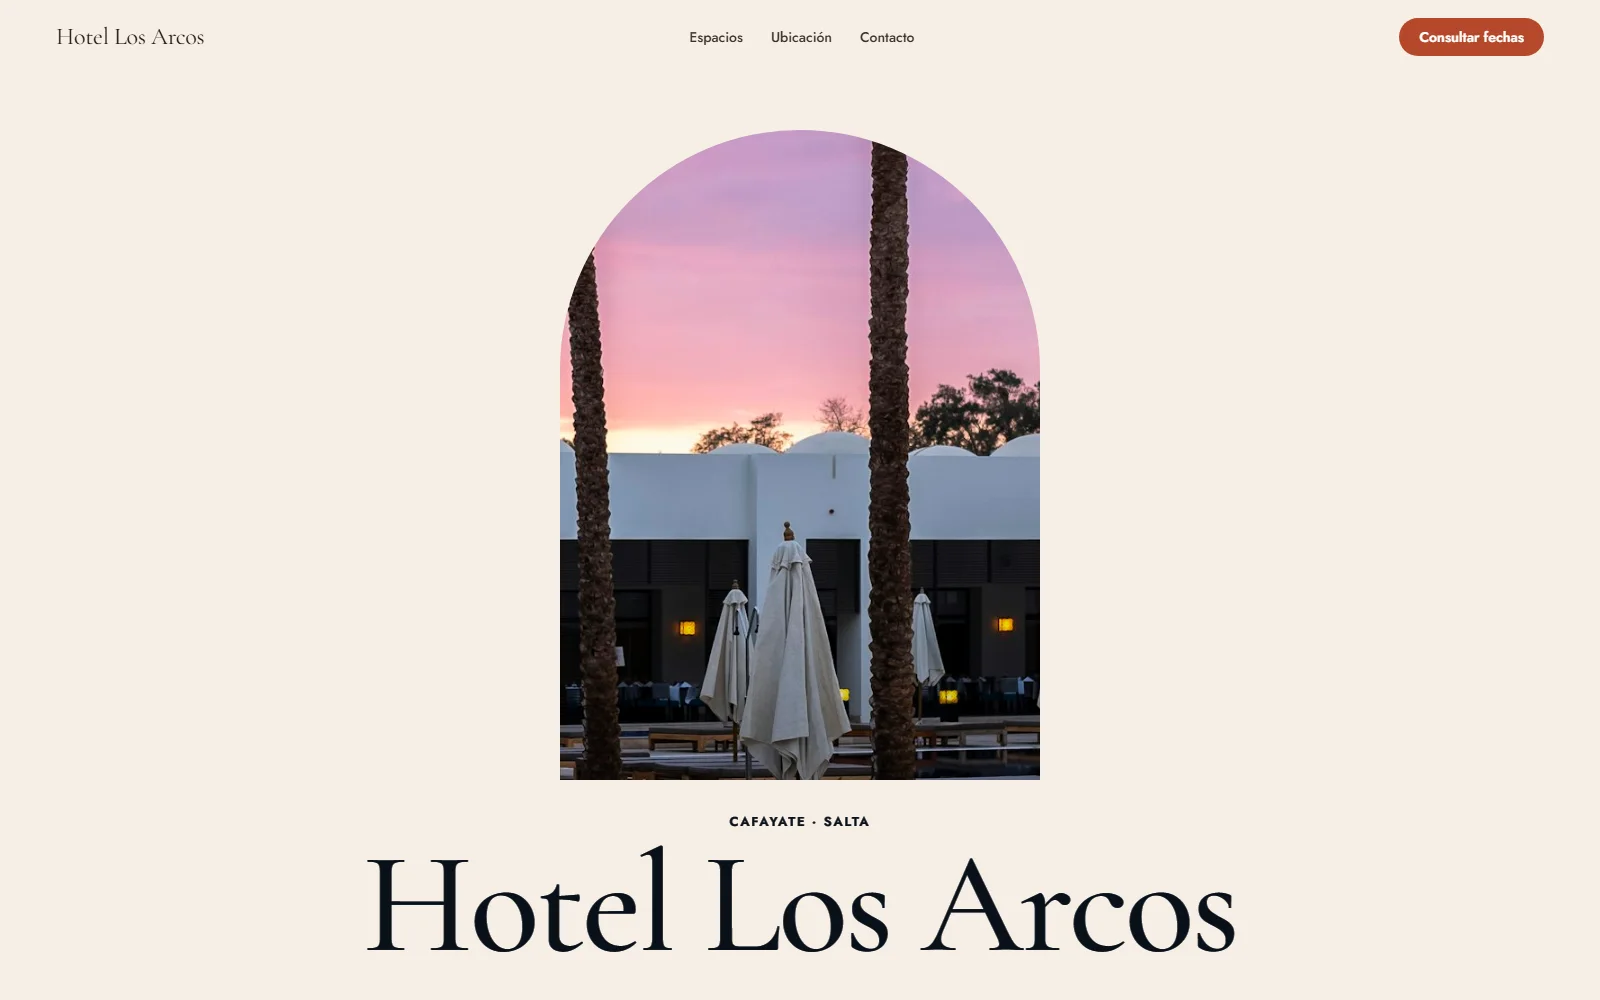
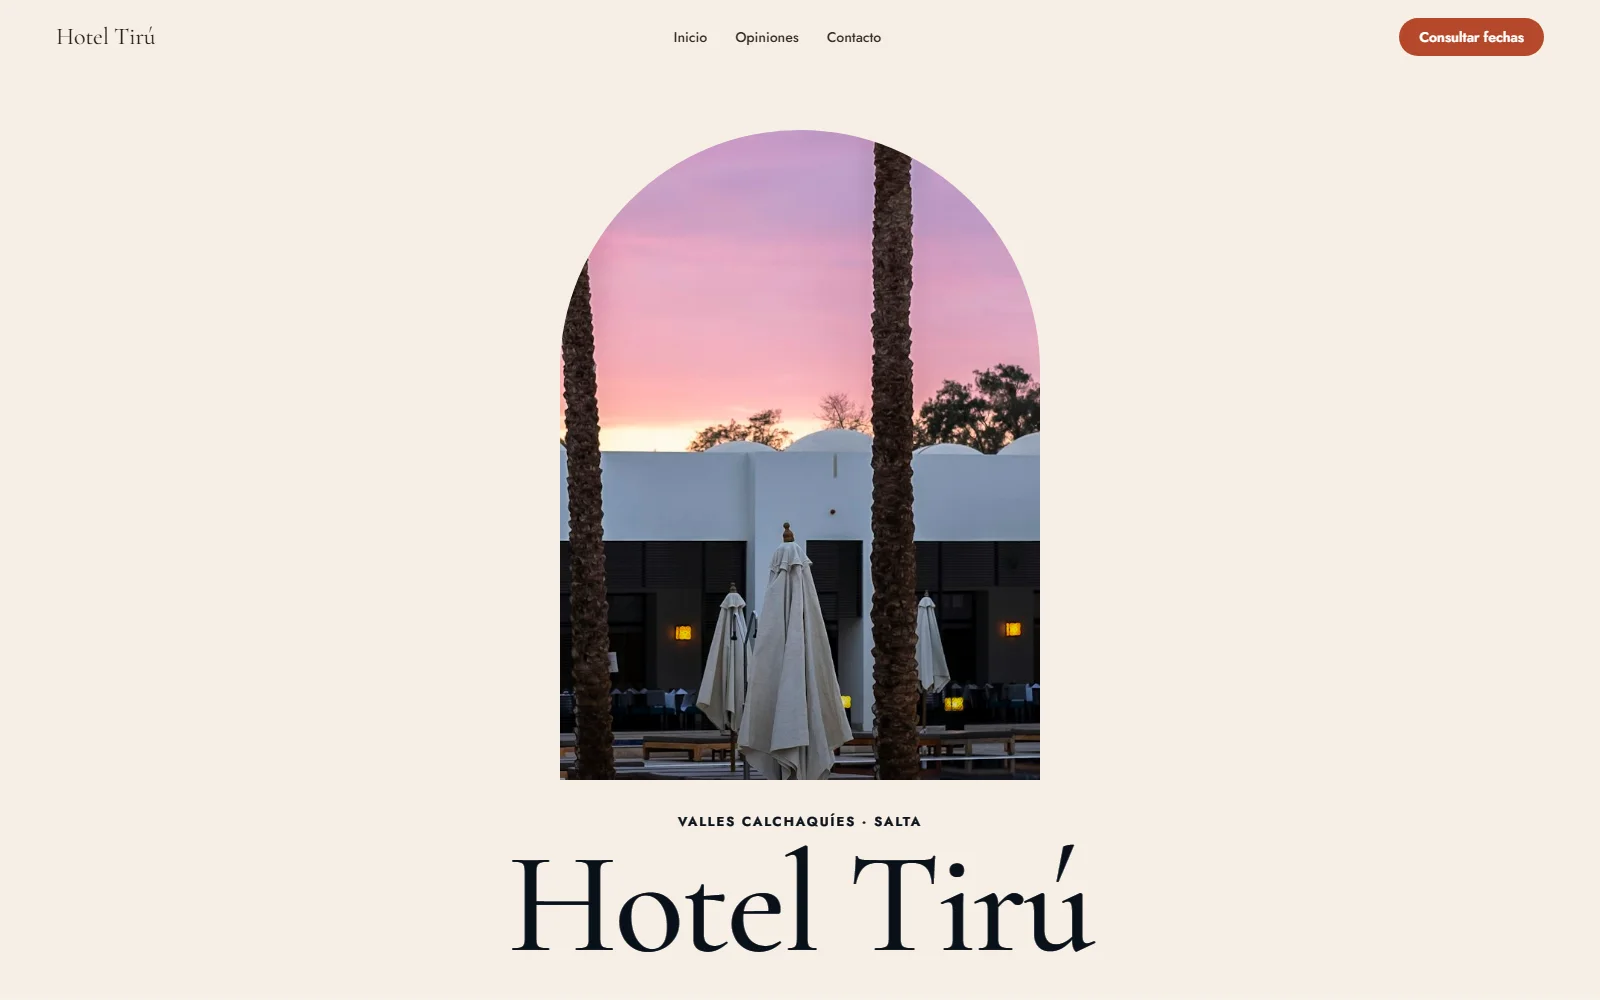
Ejemplo de hotel actualizado a la nueva plantilla (Hotel Tirú)

diff --git a/index.html b/index.html
@@ -119,12 +119,12 @@
           </article>
 
           <article class="caso reveal">
-            <a href="https://melray-ejemplo-arco.vercel.app" target="_blank" rel="noopener" class="marco" aria-label="Abrir el ejemplo de hotel boutique">
+            <a href="https://melray-tiru-hotel.vercel.app" target="_blank" rel="noopener" class="marco" aria-label="Abrir el ejemplo de hotel boutique">
               <span class="marco__barra"><i></i><i></i><i></i></span>
               <span class="marco__pantalla"><img src="/assets/ejemplos/arcos.webp" alt="Portada de una web de ejemplo para un hotel boutique, con la foto dentro de una ventana en arco." width="1600" height="1000" loading="lazy"></span>
             </a>
-            <h3>Hotel Los Arcos</h3>
-            <a class="btn btn--small" href="https://melray-ejemplo-arco.vercel.app" target="_blank" rel="noopener">Abrir el ejemplo</a>
+            <h3>Hotel Tirú</h3>
+            <a class="btn btn--small" href="https://melray-tiru-hotel.vercel.app" target="_blank" rel="noopener">Abrir el ejemplo</a>
           </article>
         </div>
         <p class="nota reveal">Son muestras de diseño. Los datos y las fotos se cambian por los de tu marca.</p>
